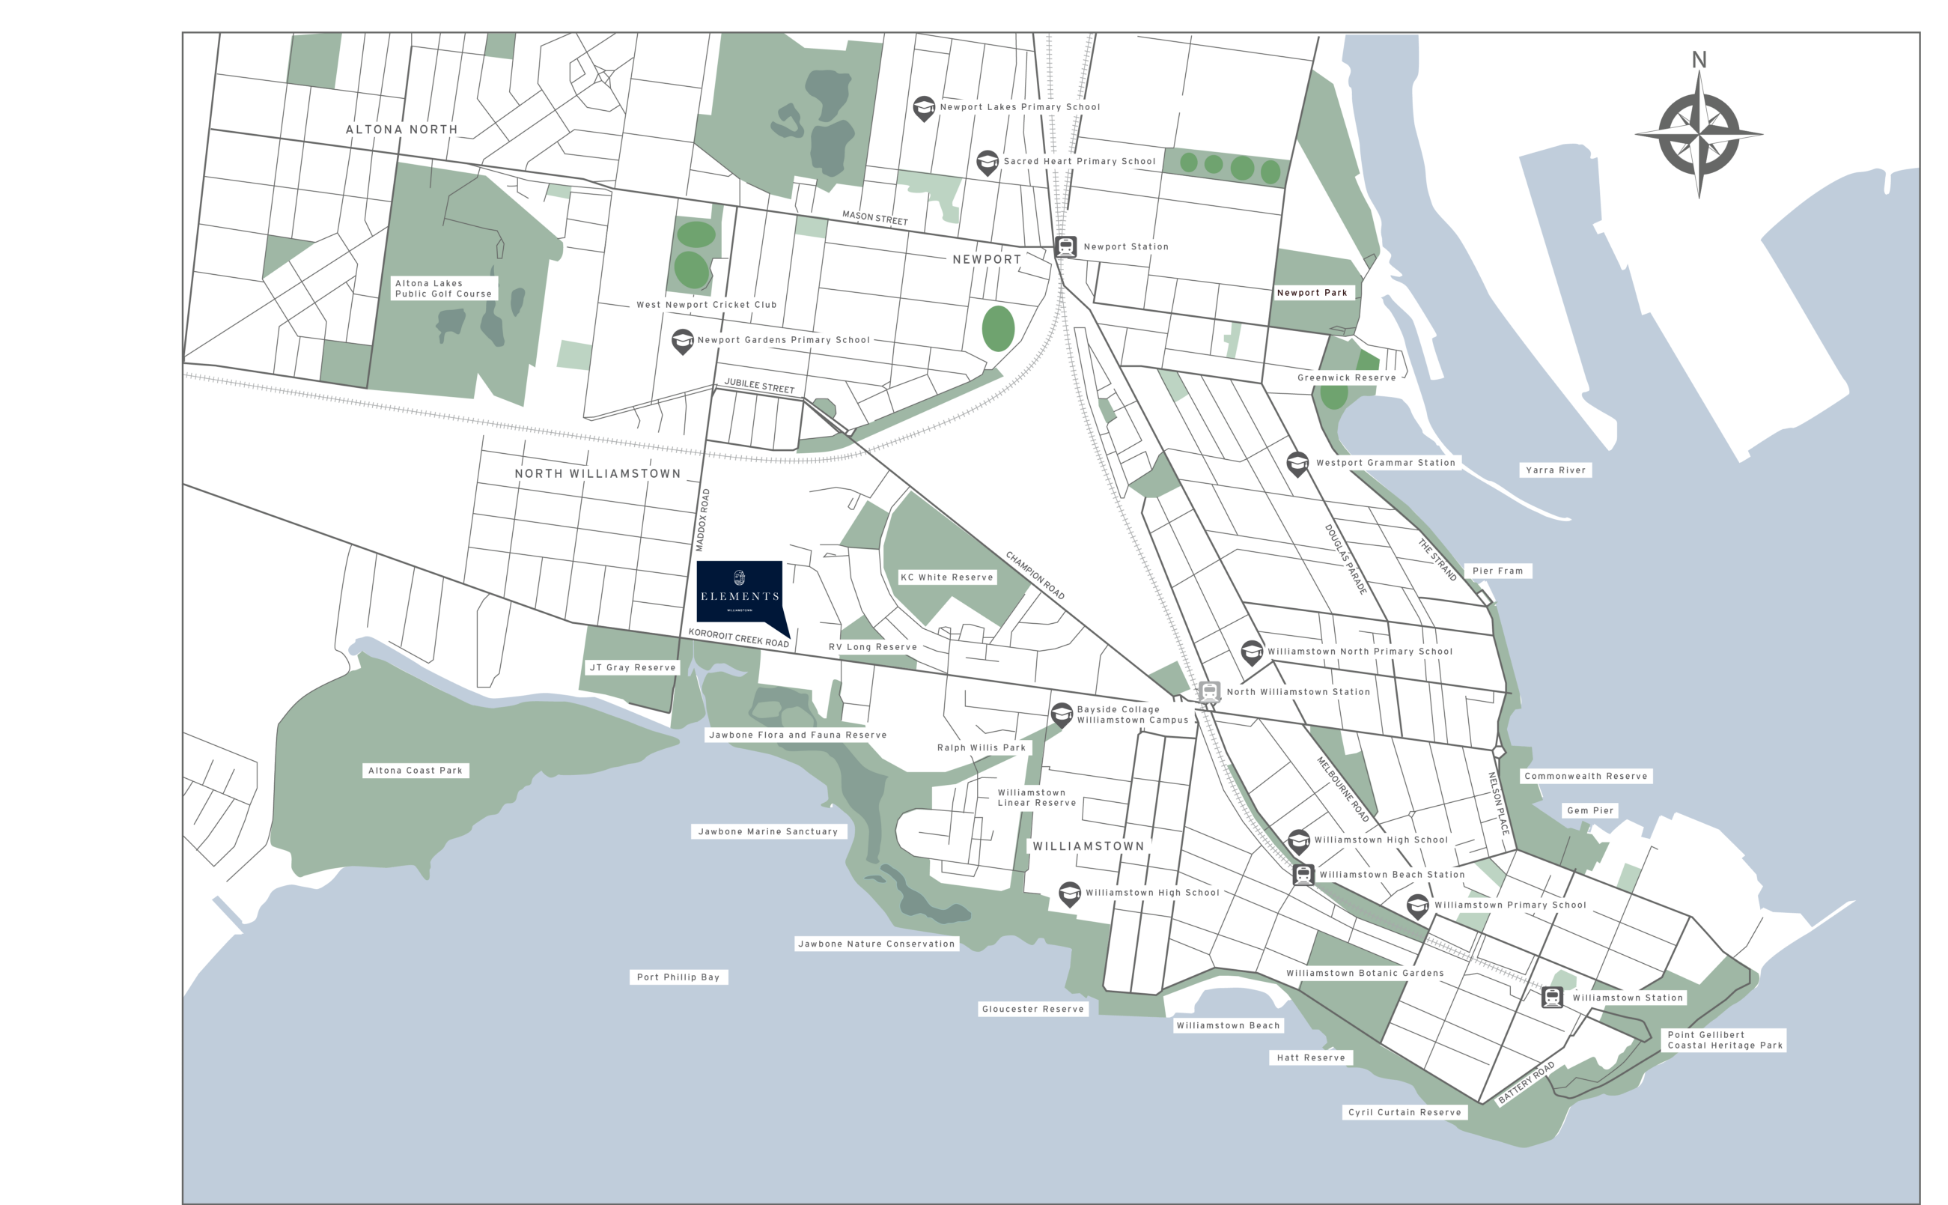
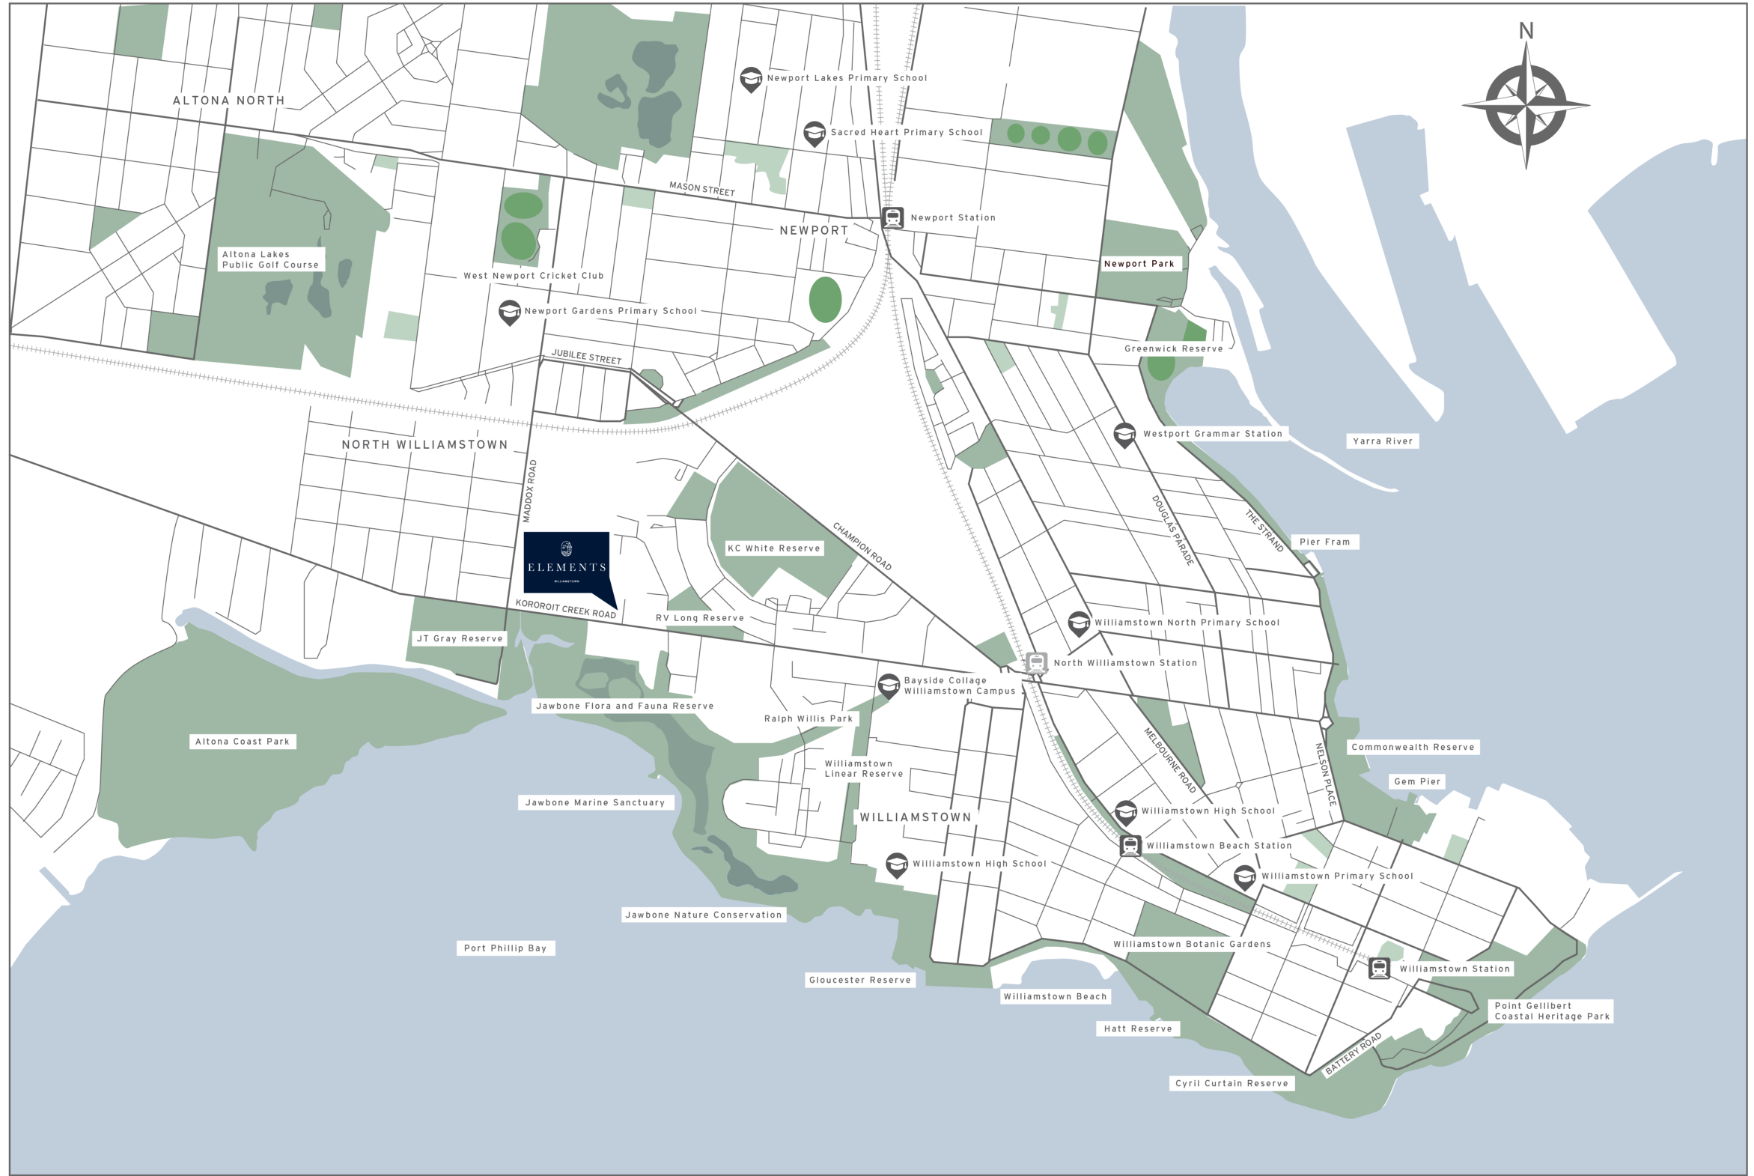
map & stage initialized

diff --git a/index.html b/index.html
@@ -228,6 +228,34 @@
     </section>
     <!-- /.Standard Cont. -->
 
+    <!-- Map -->
+    <section class="map">
+        <div class="container">
+            <div class="row">
+                <div class="col-lg-12">
+                    <div class="map-container">
+                        <img src="assets/images/Element_Maps-V4.png" alt="Map" class="img-fluid w-100">
+                    </div>
+                </div>
+            </div>
+        </div>
+    </section>
+    <!-- /.Map -->
+
+    <!-- Stage -->
+    <section class="stage">
+        <div class="container">
+            <div class="row">
+                <div class="col-lg-12">
+                    <div class="stage-container">
+                        <img src="assets/images/Elements_Stage 1 for website.png" alt="Stage" class="img-fluid w-100">
+                    </div>
+                </div>
+            </div>
+        </div>
+    </section>
+    <!-- /.Stage -->
+
     <!-- Partnership -->
     <section id="team" class="partnership">
         <div class="container">

diff --git a/assets/css/main.css b/assets/css/main.css
@@ -379,6 +379,12 @@ body {
   .partnership .btn-doi {
     margin-top: 80px; }
 
+.map .map-container {
+  margin: 50px 0; }
+
+.stage .stage-container {
+  margin: 30px 0 50px; }
+
 .footer {
   background-color: #011738;
   background-size: cover;

diff --git a/assets/scss/main.scss b/assets/scss/main.scss
@@ -9,6 +9,8 @@
 @import "helper/_full-text";
 @import "helper/_three-col";
 @import "helper/_partner";
+@import "helper/_map";
+@import "helper/_stage";
 @import "helper/_footer";
 @import "responsive/_tablet";
 @import "responsive/_mobile";

diff --git a/assets/scss/helper/_stage.scss b/assets/scss/helper/_stage.scss
@@ -1,0 +1,5 @@
+.stage{
+    .stage-container{
+        margin: 30px 0 50px;
+    }
+}

diff --git a/assets/scss/helper/_map.scss b/assets/scss/helper/_map.scss
@@ -1,0 +1,5 @@
+.map{
+    .map-container{
+        margin: 50px 0;
+    }
+}
